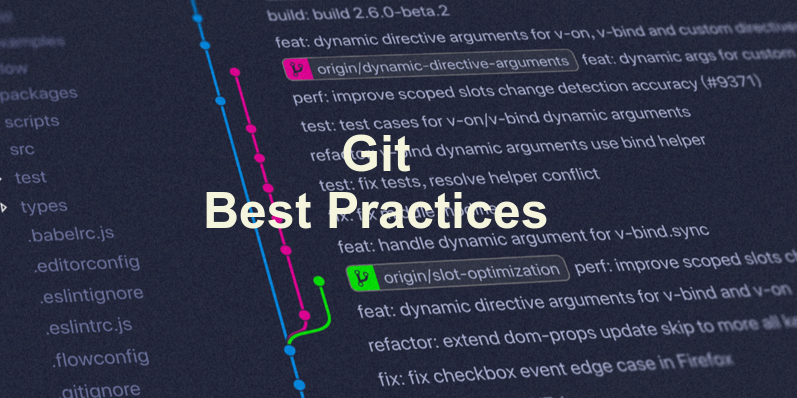
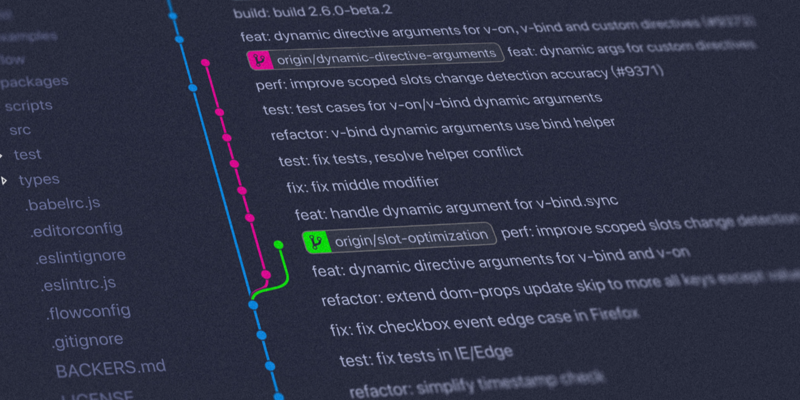
fix: Change images of detail article

diff --git a/src/blog/pages/BlogDetailPage.jsx b/src/blog/pages/BlogDetailPage.jsx
@@ -4,7 +4,7 @@ import { makeStyles } from "@mui/styles";
 import { useParams } from "react-router-dom";
 import { Link } from "react-scroll";
 import { ContentHtml } from "../";
-import { contentSection } from "../../helpers/utils";
+import { contentSection, pathSection } from "../../helpers/utils";
 import { useBlogStore } from "../../hooks";
 import { LayoutBlog } from "./LayoutBlog";
 
@@ -21,7 +21,19 @@ const useStyles = makeStyles({
   },
   imageContainer: {
     height: '300px',
-    overflow: 'hidden'
+    overflow: 'hidden',
+    display: 'flex',
+    justifyContent: 'center',
+    alignItems: 'center',
+    position: 'relative',
+    padding: '3%',
+    filter: 'brightness(0.7) contrast(1.2) invert(0.03) saturate(1.2) !important',
+    '& span': {
+      position: 'absolute',
+      color: 'white',
+      fontSize: '40px',
+      padding: '3%',
+    }
   },
   articleIndex: {
     fontWeight: 700,
@@ -39,7 +51,7 @@ const useStyles = makeStyles({
     }
   },
   indexArticleMargin: {
-    marginBottom: '20px !important'
+    marginBottom: '20px !important',
   }
 });
 
@@ -56,7 +68,6 @@ export const BlogDetailPage = () => {
       return item.node
     }
   }).filter(Boolean)
-  
 
   return (
     <LayoutBlog>
@@ -92,6 +103,7 @@ export const BlogDetailPage = () => {
               </Typography>
             </Grid>
             <Grid item xs={12} md={9} align="center" className={classes.imageContainer}>
+              <span>{ pathSection(title) }</span>
               <img
                 src={`/src/assets/imgs/skill-cards/detail-topics/${title}.png`}
                 alt={title}

diff --git a/src/helpers/utils.js b/src/helpers/utils.js
@@ -1,6 +1,7 @@
 export const pathSectionFriendly = (titleTopic) => titleTopic.replace(/,?\s+/g, '-').toLowerCase();
 
 export const pathSection = (titleTopic) => {
+  console.log(titleTopic)
   const capitalize = titleTopic.at(0).toUpperCase();
   const format = titleTopic.replace(/-/g, ' ').slice(1);
 

diff --git a/src/blog/components/AllTopics.jsx b/src/blog/components/AllTopics.jsx
@@ -1,6 +1,5 @@
 import { Box, Container } from "@mui/material";
 import { makeStyles } from '@mui/styles/';
-
 import { generateId } from "../../helpers";
 import { useBlogStore } from "../../hooks";
 import { TopicCard } from "../components/TopicCard";
